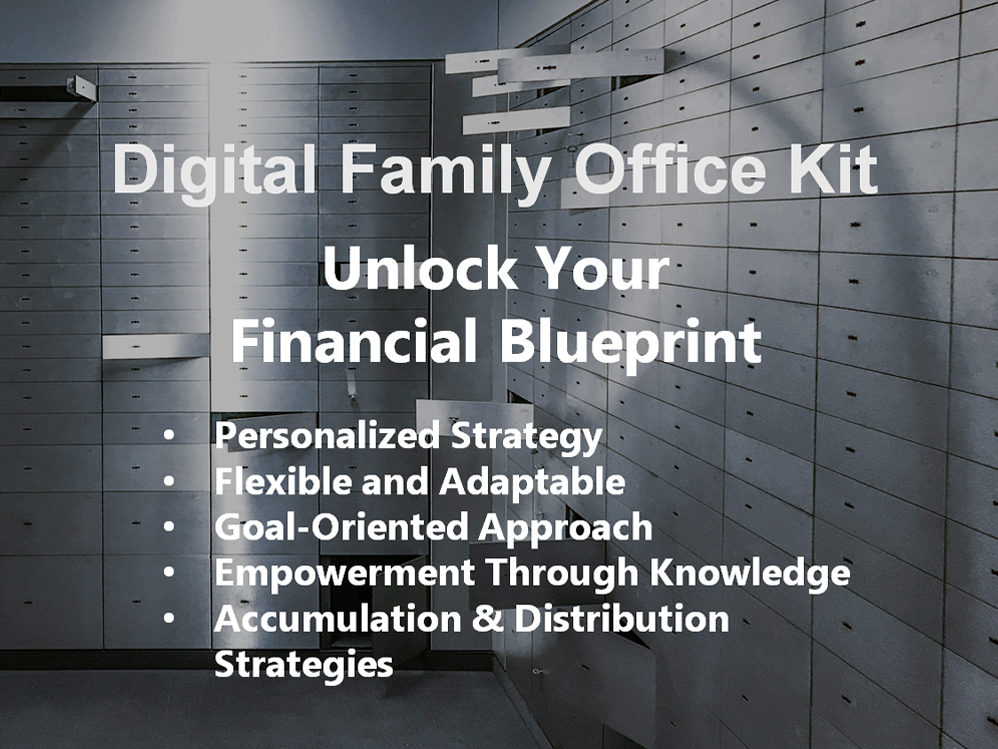
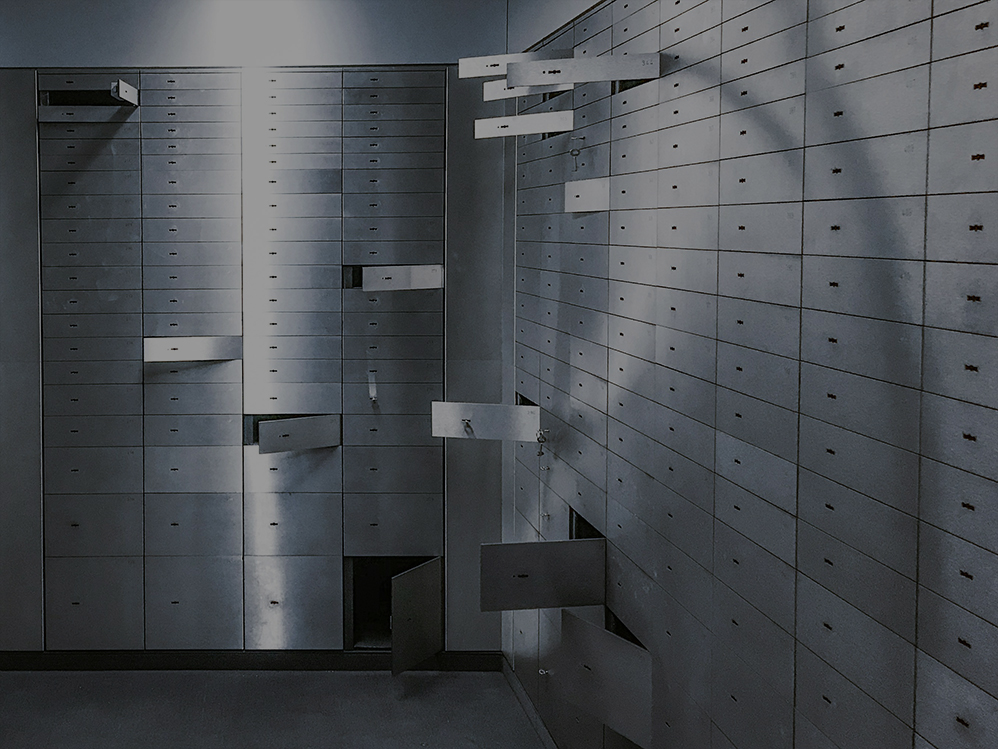
changes

diff --git a/assets/css/main.css b/assets/css/main.css
@@ -88,7 +88,7 @@ h6 {
 .sliderSubHeading {
   font-size: 2rem;
   line-height: 2.4rem;
-  padding-top: 30px;
+  /* padding-top: 30px; */
   /* padding-left: 30px; */
   position: relative;
 }
@@ -710,11 +710,26 @@ top: -3px;
   font-size: 1.4rem;
   line-height: 2.2rem;
 }
+ul.text-white {
+  width: fit-content;
+  margin: 0 auto;
+}
+.trategy-ul li {
+  font-size: 1.62rem;
+  line-height: 2.4rem;
+}
+.textBoxNew {
+  position: absolute;
+  top: 50%;
+  left: 50%;
+  transform: translate(-50%,-50%);
+  width: 100%;
+}
 .boxWealth {
   padding: 48px 0px;
 }
 .finance-ul {
-  padding-left: 0px;
+  padding-left: 30px;
 }
 .faIconBox {
   padding-left: 90px;
@@ -1146,7 +1161,7 @@ border: 4px solid #fff;
 
 .work-box-1 {
   border: 2px solid #fff;
-  padding: 10px 5px 5px;
+  padding: 16px 5px 16px 5px;
   width: 100%;
   justify-content: center;
   background: #000;

diff --git a/index.php b/index.php
@@ -87,12 +87,12 @@
 
 
 
-        <section style="background:#000; ">
+        <section style="background:#000; overflow: hidden; position: relative;">
             <div class="container">
                 <div class="row justify-content-center position-relative">
-                    <div class="col-lg-8">
+                    <div class="col-lg-10">
                         <div class="BannerTxtBox pb-5">
-                            <p class="slicksliderHeading text-center text-white m-auto" style="width:fit-content;">Financial Freedom Access for All
+                            <p class="slicksliderHeading text-center text-white m-auto mb-3" style="width:fit-content;">Financial Freedom Access for All
                             </p>
                             <p class="sliderSubHeading text-center text-white">Complimentary access to strategies and tools from successful families and businesses, tailored to your unique “Lifestage”, ensuring your path to financial freedom.
 
@@ -103,6 +103,23 @@
 
                     <div class="col-lg-8" style="position: relative;">
                         <img src="assets/img/image24.jpg" alt="Alt" class="img-fluid w-100">
+
+                        <div class="textBoxNew">
+                            <p class="text-white sliderHeading2 text-center">Digital Family Office Kit
+                            </p>
+                            <p class="text-white sliderHeading2 text-center">Unlock Your Financial Blueprint 
+                            </p>
+
+                            <ul class="text-white trategy-ul">
+                                <li>Personalized Strategy</li>
+                                <li>Flexible and Adaptable</li>
+                                <li> Goal-Oriented Approach</li>
+                                <li> Empowerment Through Knowledge</li>
+                                <li>Accumulation & Distribution Strategies</li>
+                                    
+                            </ul>
+                        </div>
+
                     </div>
                 </div>
             </div>
@@ -111,16 +128,16 @@
 
 
 
-        <section style="background:#000; ">
+        <section style="background:#000;  overflow: hidden; position: relative;">
 
         <div class="row justify-content-center position-relative">
 
             <div class="col-lg-6">
                 <div class="BannerTxtBox ps-5 pe-0">
-                    <p class="slicksliderHeading text-center text-white m-auto" style="width:fit-content;">Empower Your Future: Open Access
+                    <p class="slicksliderHeading text-center text-white m-auto mb-3" style="width:fit-content;">Empower Your Future: Open Access
 
                     </p>
-                    <p class="sliderSubHeading text-white">Start Now – Access Wealth Resources and Shape Your Ideal Life.
+                    <p class="sliderSubHeading text-white text-center">Start Now – Your Access Wealth Resources and Shape Your Ideal Life.
 
                     </p>
 
@@ -132,7 +149,7 @@
             <div class="col-lg-8 text-center">
                 <div class="boxWealth">
                     <p class="text-white sliderHeading2">Digital Family Office Kit<br>
-                    <span class="boxHeading text-white">Private Wealth, Financial, and Risk Management
+                    <span class="sliderSubHeading text-white text-center">Private Wealth, Financial, and Risk Management
                     </span></p>
                     <div class="d-flex gap-3 justify-content-center mt-5">
                         <a href="#" class="office-kit-box text-center text-white">
@@ -189,7 +206,7 @@
         <section class="section familyOff" style="background:#000; ">
             <div class="container">
                 <div class="row justify-content-center text-center">
-                    <p class="sectionHeading text-white m-auto">DIGITAL FAMILY OFFICE KIT</p>
+                    <p class="sectionHeading text-white m-auto mb-3">DIGITAL FAMILY OFFICE KIT</p>
                     <p class="sliderSubHeading text-white text-center">We bring strategies from successful family offices and businesses to the public.</p>
 
                 </div>
@@ -544,9 +561,9 @@
 
         <div class="row justify-content-center position-relative">
 
-            <div class="col-lg-8">
+            <div class="col-lg-10">
                 <div class="BannerTxtBox">
-                    <p class="slicksliderHeading text-white text-center m-auto" style="width: fit-content;">Revolutionizing Total Workforce Benefits
+                    <p class="slicksliderHeading text-white text-center m-auto mb-3" style="width: fit-content;">Revolutionizing Total Workforce Benefits
                     </p>
                 
                     <p class="sliderSubHeading text-white text-center">Attract, Retain, Reward – Tailored for Your Whole Team, From Founders to Contractors.
@@ -603,7 +620,7 @@
         <div class="row justify-content-center">
 
             <div class="col-lg-8">
-                <p class="slicksliderHeading text-white text-center m-auto" style="width: fit-content;">Redefining Workforce Value  – More Than 401(k) and Health Insurance
+                <p class="slicksliderHeading text-white text-center m-auto mb-3" style="width: fit-content;">Redefining Workforce Value  – More Than 401(k) and Health Insurance
                 </p>
                 <p class="sliderSubHeading text-white text-center">Rewards and Benefits That Build Legacies – For Workers and Their Families.
                 </p>
@@ -615,10 +632,9 @@
                 <p class="sliderSubHeading text-white text-center">Benefits Solutions From Founders to Contractors
                 </p>
 
-                <div class="d-flex mt-2 justify-content-center gap-3">
+                <div class="d-flex mt-2 justify-content-center gap-3 mb-4">
                     <div class="work-box-1 d-flex">
-                        <p class="sliderSubHeading text-center text-white pt-0 mb-0 px-3">Employees<br>
-                            Benefits
+                        <p class="sliderSubHeading text-center text-white pt-0 mb-0 px-3">Employees
                             </p>
                         <div class=" d-flex employees-img mt-2">
 
@@ -628,8 +644,7 @@
                     </div>
 
                     <div class="work-box-1 d-flex">
-                        <p class="sliderSubHeading text-center text-white pt-0 mb-0 px-3">Contractors<br>
-                            Benefits
+                        <p class="sliderSubHeading text-center text-white pt-0 mb-0 px-3">Contractors
                             </p>
                         <div class=" d-flex employees-img mt-2">
 
@@ -670,7 +685,7 @@
     <div class="container">
         <div class="row justify-content-center">
             <div class="col-lg-8">
-                <p class="slicksliderHeading text-white text-center m-auto" style="width: fit-content;">Industry Leading Digital 401(k) Solution
+                <p class="slicksliderHeading text-white text-center m-auto mb-3" style="width: fit-content;">Industry Leading Digital 401(k) Solution
                 </p>
                 <p class="sliderSubHeading text-white text-center">Outsource with Confidence – Your Benefits and Operations Managed End-to-End.
 
@@ -718,7 +733,7 @@
     <div class="container">
         <div class="row justify-content-center">
             <div class="col-lg-8">
-                <p class="slicksliderHeading text-white text-center m-auto" style="width: fit-content;">Contractor Benefits – Comprehensive Bundled Solution</p>
+                <p class="slicksliderHeading text-white text-center m-auto mb-3" style="width: fit-content;">Contractor Benefits – Comprehensive Bundled Solution</p>
                 <p class="sliderSubHeading text-white text-center">Today's modern business comprises founders, full-time and part-time employees, contractors, and fractional leaders. We create innovative workforce benefit packages tailored to the needs of this rapidly evolving workforce.
                 </p>
             </div>
@@ -738,9 +753,9 @@
 
             <div class="col-lg-10">
 
-                <p class="sliderHeading text-white text-center mb-5">Unique Bundled Solutions Tailored to Fit Every Business Needs
+                <p class="sectionHeading text-white text-center mb-5 ">Unique Bundled Solutions Tailored to Fit Every Business Needs
                 </p>
-                <p class="slicksliderHeading text-white text-center m-auto" style="width: fit-content;">Workforce Benefits <span style="color:#ffc000;">plus</span> Digital Family Office Kit
+                <p class="slicksliderHeading text-white text-center m-auto mb-3" style="width: fit-content;">Workforce Benefits <span style="color:#ffc000;">plus</span> Digital Family Office Kit
                 </p>
                 <p class="sliderSubHeading text-white text-center mb-5">From Start to Success.  Solutions for All Lifestages – Differentiation Through Customized Bundles.
 
@@ -933,7 +948,7 @@
 </section>
 
 
-        <section class="py-5" style="background: #000;">
+        <section class="py-5 position-relative" style="background: #000; overflow: hidden;">
             <div class="container">
 
            
@@ -943,7 +958,7 @@
                     </p>
                     <img src="assets/img/cityfont.png" style=" height: 46px;" class="img-fluid">
                 </span>
-                    <p class="sectionSubHeading text-white">We invest in the operations of communities, non-profits, and associations. 
+                    <p class="sliderSubHeading text-white text-center">We invest in the operations of communities, non-profits, and associations. 
                     </p>
 
                 </div>
